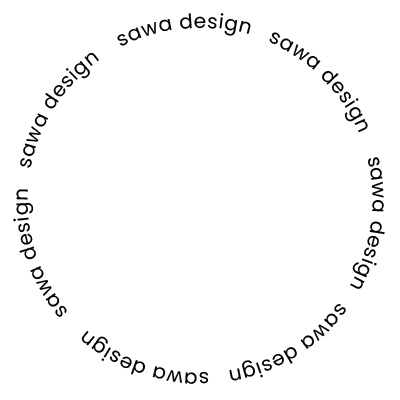
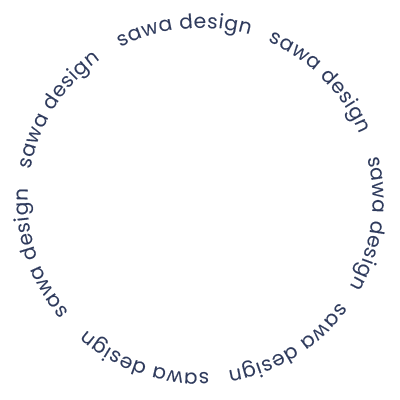
Style: Set circle texts

diff --git a/portfolio/index.html b/portfolio/index.html
@@ -56,10 +56,11 @@
                     <h1>Design your connection</h1>
                     <p>I’m a web designer and developer from Japan.</p>
                 </div>
-                <div class="top_circle"><!-- reference: https://b-moon.net/automatic-arrange-letters-circle/-->
-                    <div class="inner">
-                        <div><img src="./images/logo-dark-thin-min.png" alt="TOP IMAGE"></div>
-                    </div>
+                <div class="top_circle">
+
+                    <div><img src="./images/top_circle_letters-min.png" alt="sawa design"></div>
+                    <div class="absolute"><img src="./images/logo-dark-thin-min.png" alt="TOP IMAGE"></div>
+
                 </div>
             </div><!-- layout -->
         </div><!-- top_bg -->

diff --git a/portfolio/css/style.scss b/portfolio/css/style.scss
@@ -26,6 +26,13 @@
         }
         .top_circle {
             width: 38%;
+            position: relative;
+            .absolute {
+                position: absolute;
+                bottom: -2px;
+                left: 8px;
+                width: 95%;
+            }
         }
     }
     .copy {

diff --git a/portfolio/css/style.css b/portfolio/css/style.css
@@ -21,6 +21,13 @@
 }
 .top_wrapper .layout .top_circle {
   width: 38%;
+  position: relative;
+}
+.top_wrapper .layout .top_circle .absolute {
+  position: absolute;
+  bottom: -2px;
+  left: 8px;
+  width: 95%;
 }
 .top_wrapper .copy h1,
 .top_wrapper .copy p {
